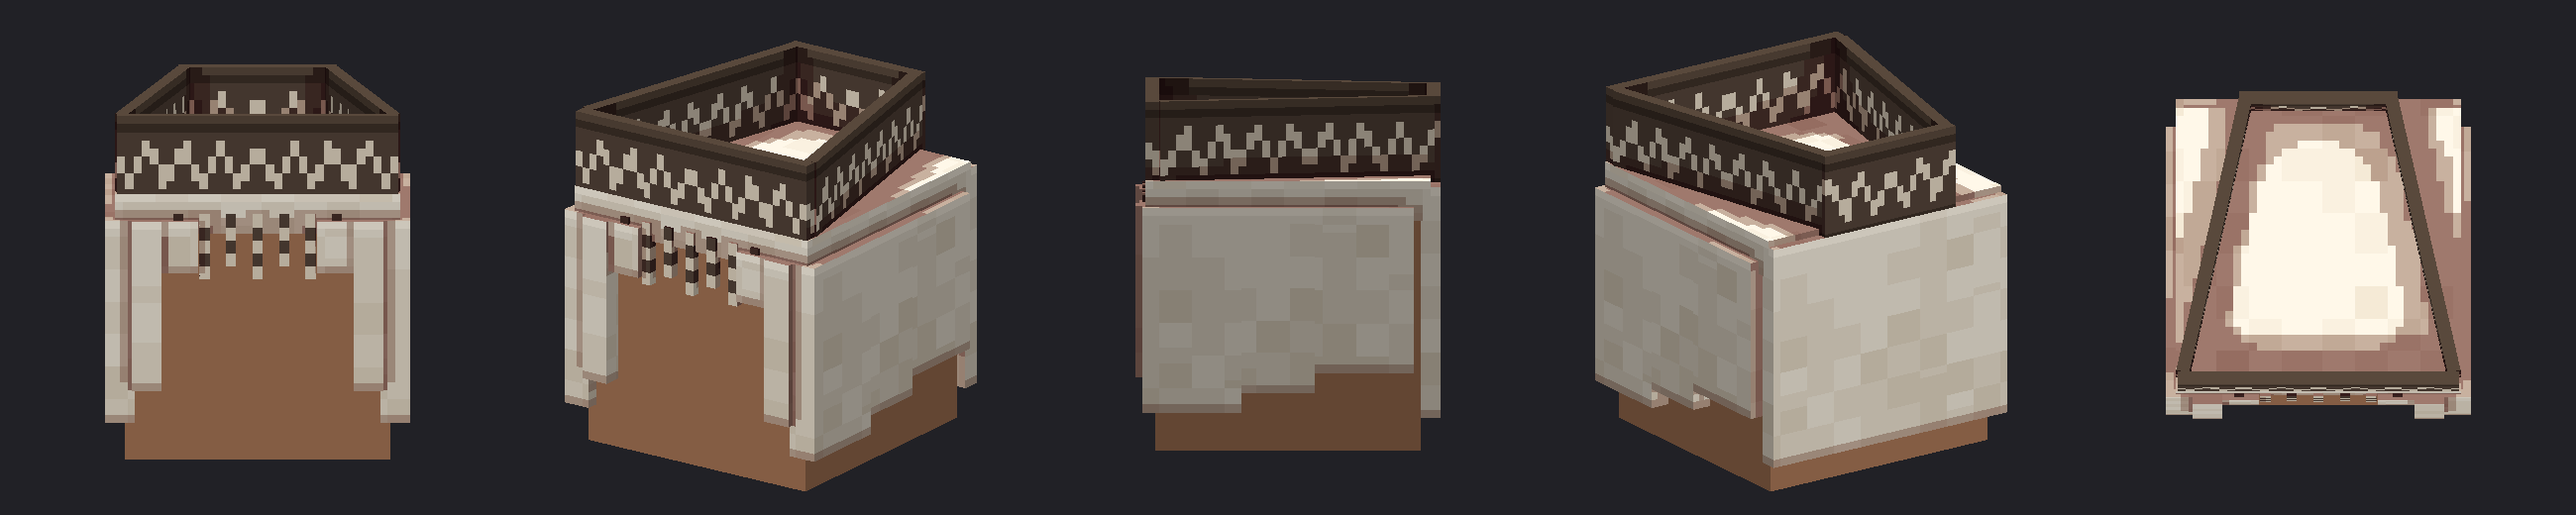
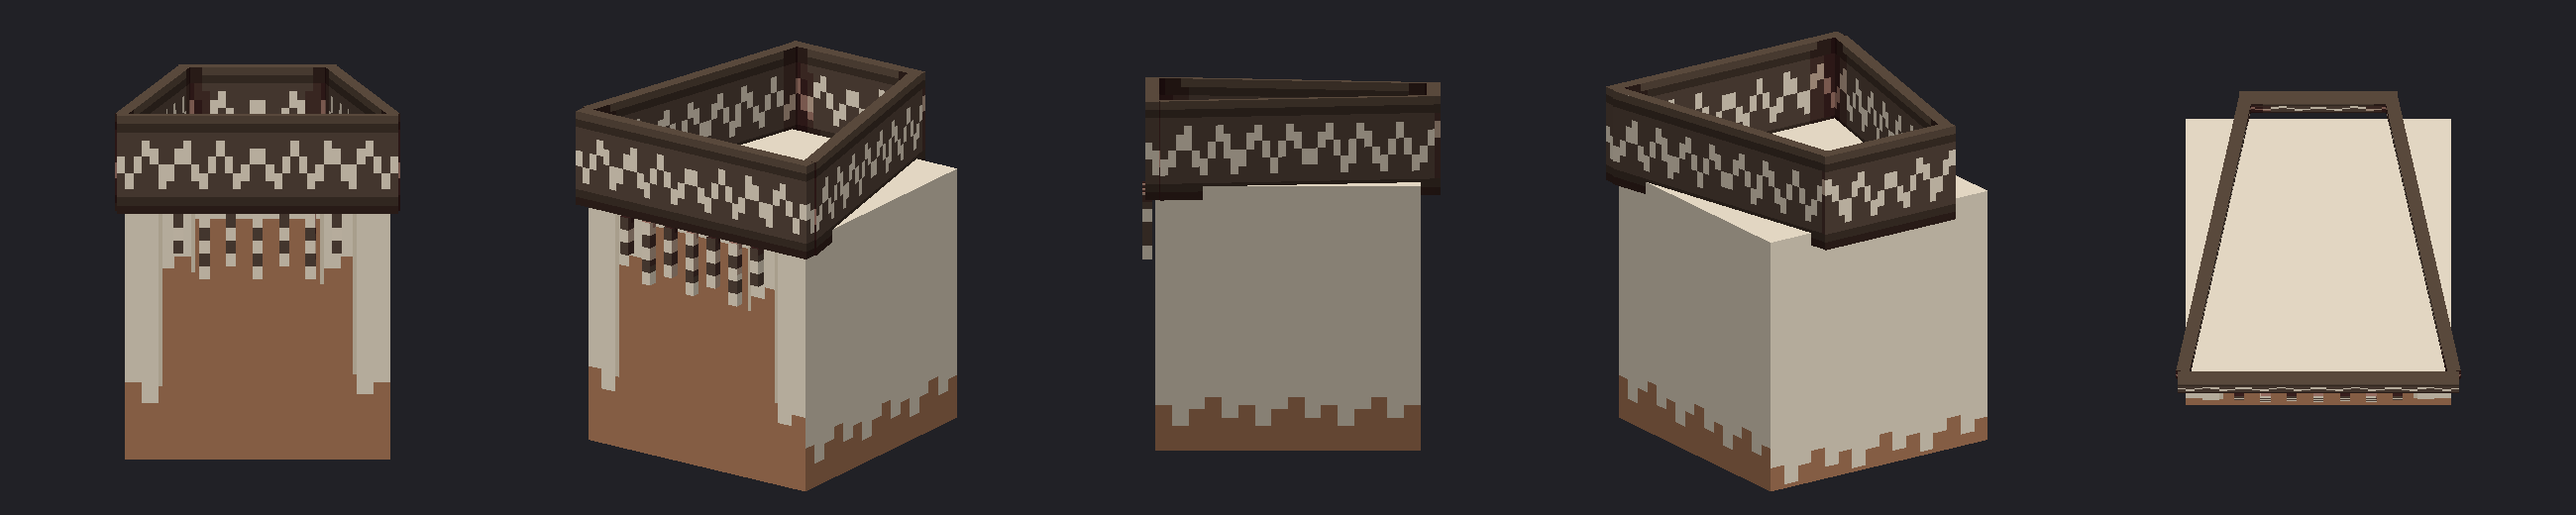
Kemira paso 2: pelo pintado pegado a la cabeza, sin volumen ni sombras
Claude-Session: https://claude.ai/code/session_01JLSuk79QgXUucDMTiBYitK

diff --git a/taller/personajes/kemira.py b/taller/personajes/kemira.py
@@ -15,6 +15,7 @@ from .revolthir import color
 D = 4
 
 PIEL = "#A67556"                        # tomado de la paleta de la hoja
+CUELLO = 28.0
 CAFE, CAFE_OSCURO, CREMA = "#54443A", "#3E3128", "#E4D8C4"
 
 
@@ -53,30 +54,37 @@ def diadema(p, T, alto=3.0, grosor=0.4):
                    color(CREMA if (i + k) % 2 else CAFE), dens=D)
 
 
-PELO = {"s": "#C9BCA6", "b": "#E2D6C2", "l": "#F1E9DA"}
+PELO, PELO_SOMBRA = "#E2D6C2", "#D3C6B0"
 
 
-def pelo(p, C, T):
-    """Pelo crema como la hoja: arriba bajo la diadema, cortinas de mechones a los costados de la cara hasta la
-    mandibula, unos mechones sueltos en el borde de la frente y atras hasta la nuca."""
-    from .revolthir import voxel
-    tex = voxel(PELO, claro=0.25)
-    g = "Head/pelo"
-    p.caja(g, "arriba", (-4.3, T - 1.0, -4.3), (4.3, T + 0.2, 4.3), tex, dens=D)
-    p.caja(g, "atras", (-4.3, C + 1.0, 4.0), (4.3, T, 4.6), tex, dens=D)
-    for s in (1, -1):
-        for k, (x0, x1, abajo, z0) in enumerate(((2.9, 3.8, C + 2.2, -4.6), (3.7, 4.6, C + 1.2, -4.4),
-                                                (4.0, 4.6, C + 1.8, -2.2), (4.0, 4.6, C + 2.4, 0.8))):
-            a, b = sorted((s * x0, s * x1))
-            p.caja(g, f"cortina{s}_{k}", (a, abajo, z0), (b, T - 0.6, z0 + 3.0), tex, dens=D)
-        a, b = sorted((s * 1.8, s * 2.9))                       # mechon suelto en el borde de la frente
-        p.caja(g, f"suelto{s}", (a, T - 2.2, -4.5), (b, T - 0.6, -4.15), tex, dens=D)
+def _puntas(u, base, paso=0.5):
+    """Borde de abajo del pelo en mechones: cada columna de 'paso' baja un poco distinto."""
+    k = int((u + 50) // paso)
+    return base - (0.0, 0.6, 0.25, 0.9, 0.4)[k % 5]
+
+
+def cabeza(t):
+    """La cabeza con el pelo pintado encima, pegado al cubo (nada sobresale y sin sombras): arriba todo crema; a los
+    costados y atras baja en mechones; adelante, cortinas a los lados de la cara y un mechon suelto en cada borde
+    de la frente. El resto, piel."""
+    v = t.y - CUELLO
+    if t.cara == "up":
+        return hex_(PELO)
+    if t.cara == "down":
+        return hex_(PIEL)
+    if t.cara == "north":
+        u, au = -t.x, abs(-t.x)
+        if v > 7.4 or (au > 2.9 and v > _puntas(u, 2.6)) or (1.9 < au <= 2.9 and v > _puntas(u, 6.3)):
+            return hex_(PELO_SOMBRA if 2.85 < au < 3.0 or 1.85 < au < 1.95 else PELO)
+        return hex_(PIEL)
+    u = t.z if t.cara in ("east", "west") else t.x
+    base = 1.6 if t.cara in ("east", "west") else 1.0
+    return hex_(PELO) if v > _puntas(u, base) else hex_(PIEL)
 
 
 def construir():
     p = Personaje("kemira", altura=36, cabeza=8, torso=(7.4, 12, 4.0), brazo=(2.6, 2.6), pierna=(3.4, 3.4))
     C, T = p.cuello, p.tope                                # 28, 36
-    p.caja("Head/cabeza", "cabeza", (-4, C, -4), (4, T, 4), color(PIEL), dens=D, luz=False)
-    pelo(p, C, T)
+    p.caja("Head/cabeza", "cabeza", (-4, C, -4), (4, T, 4), cabeza, dens=8, luz=False)
     diadema(p, T)
     return p
